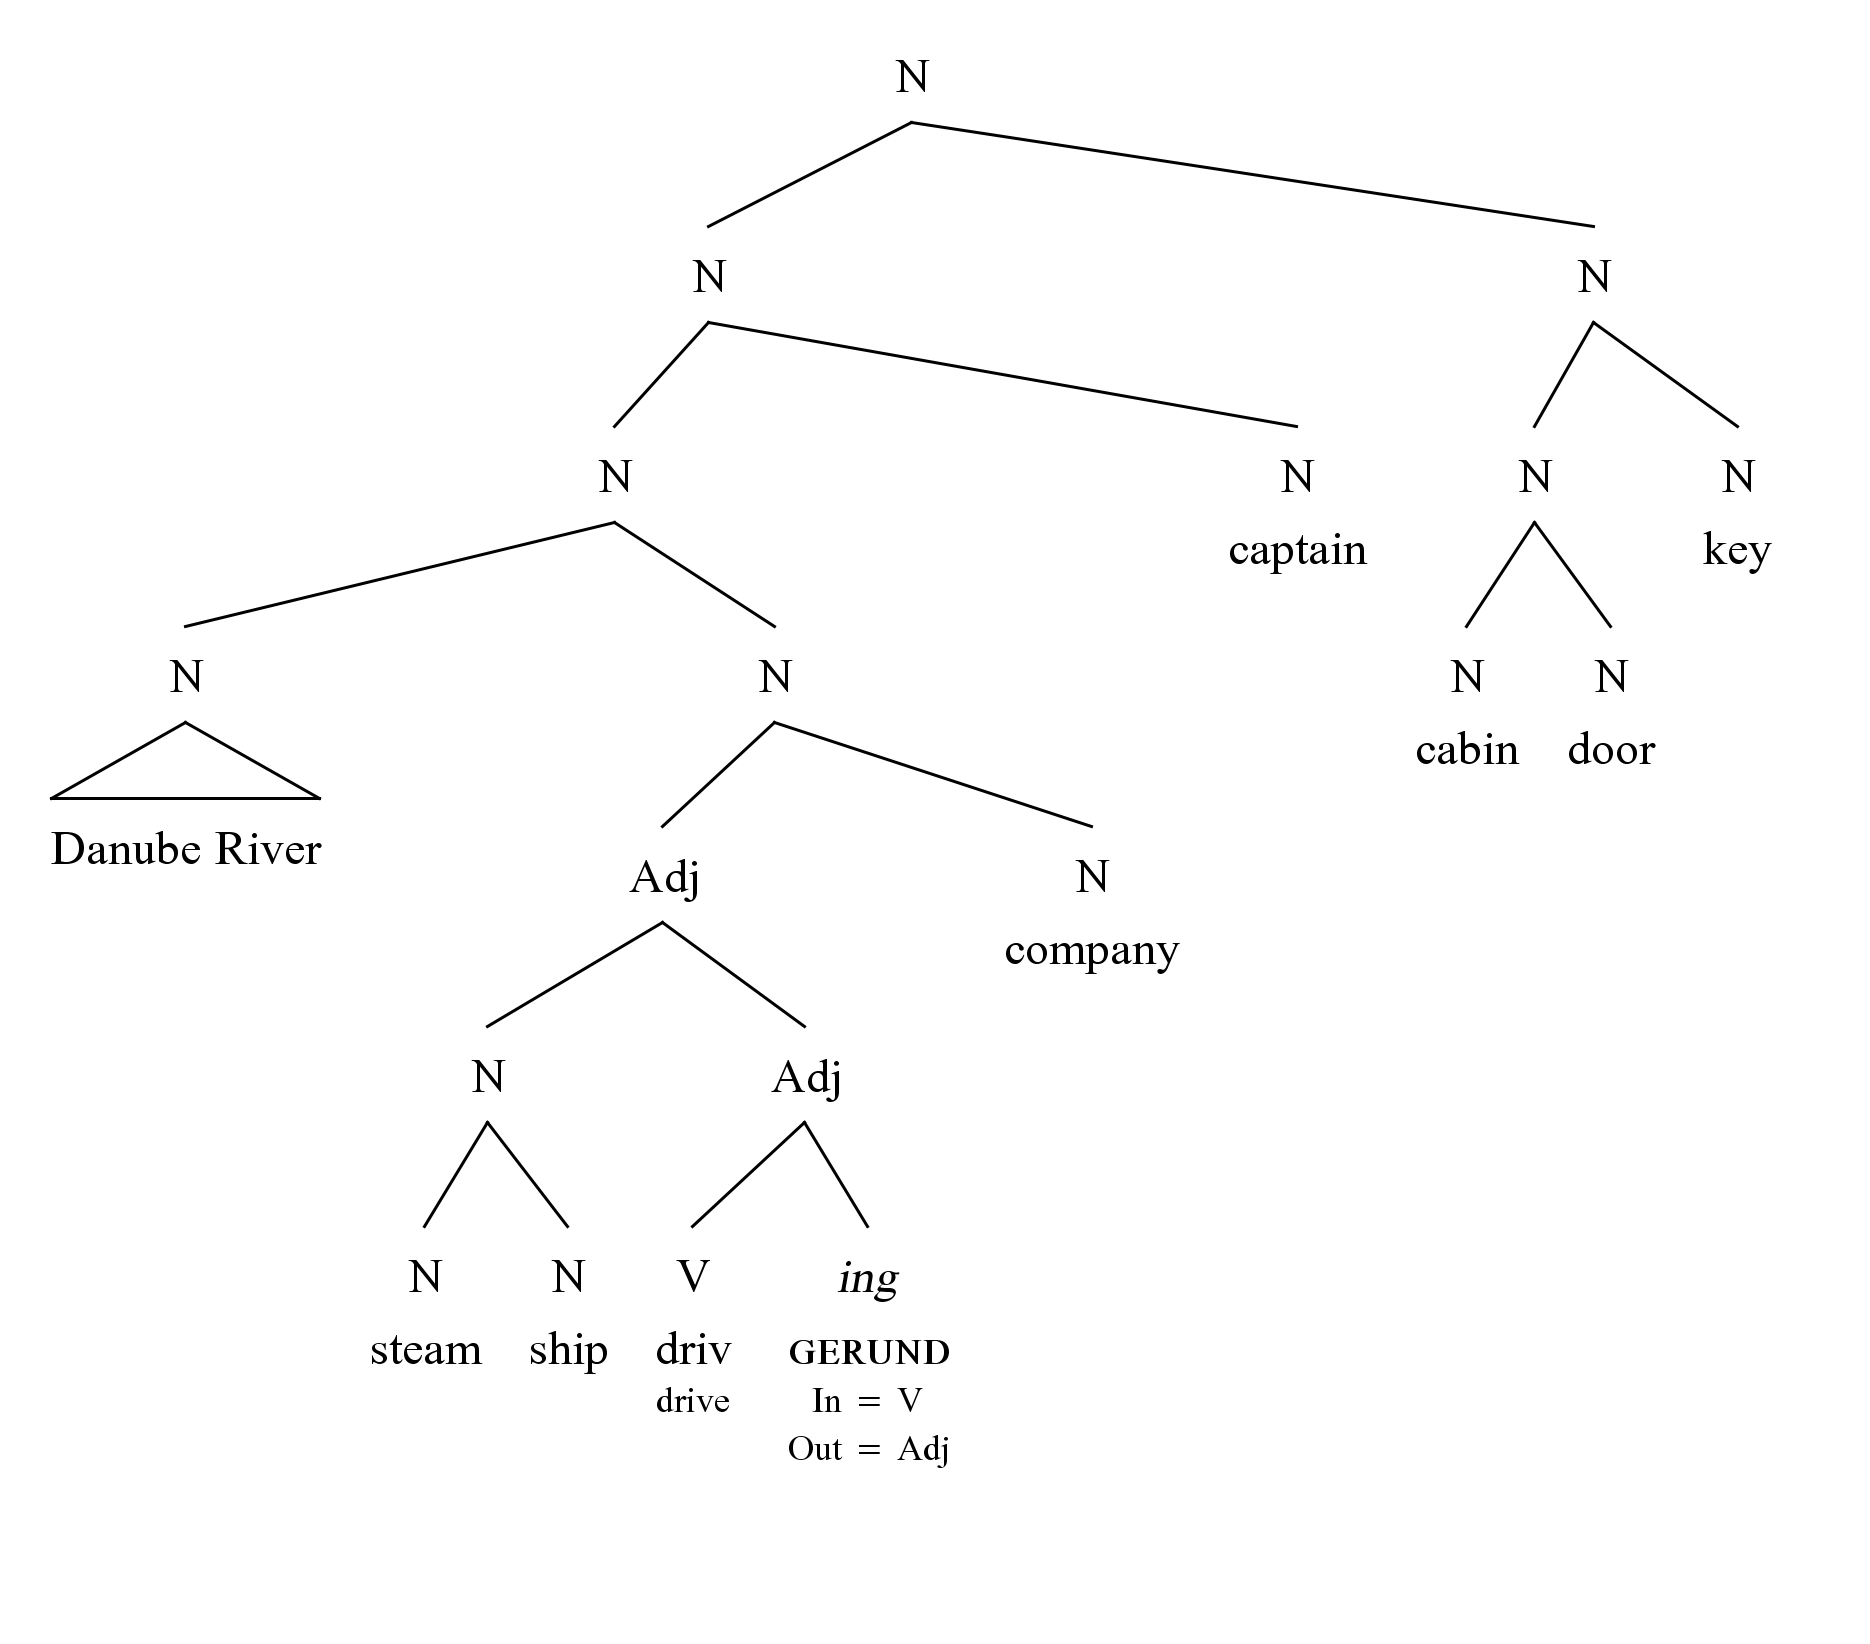
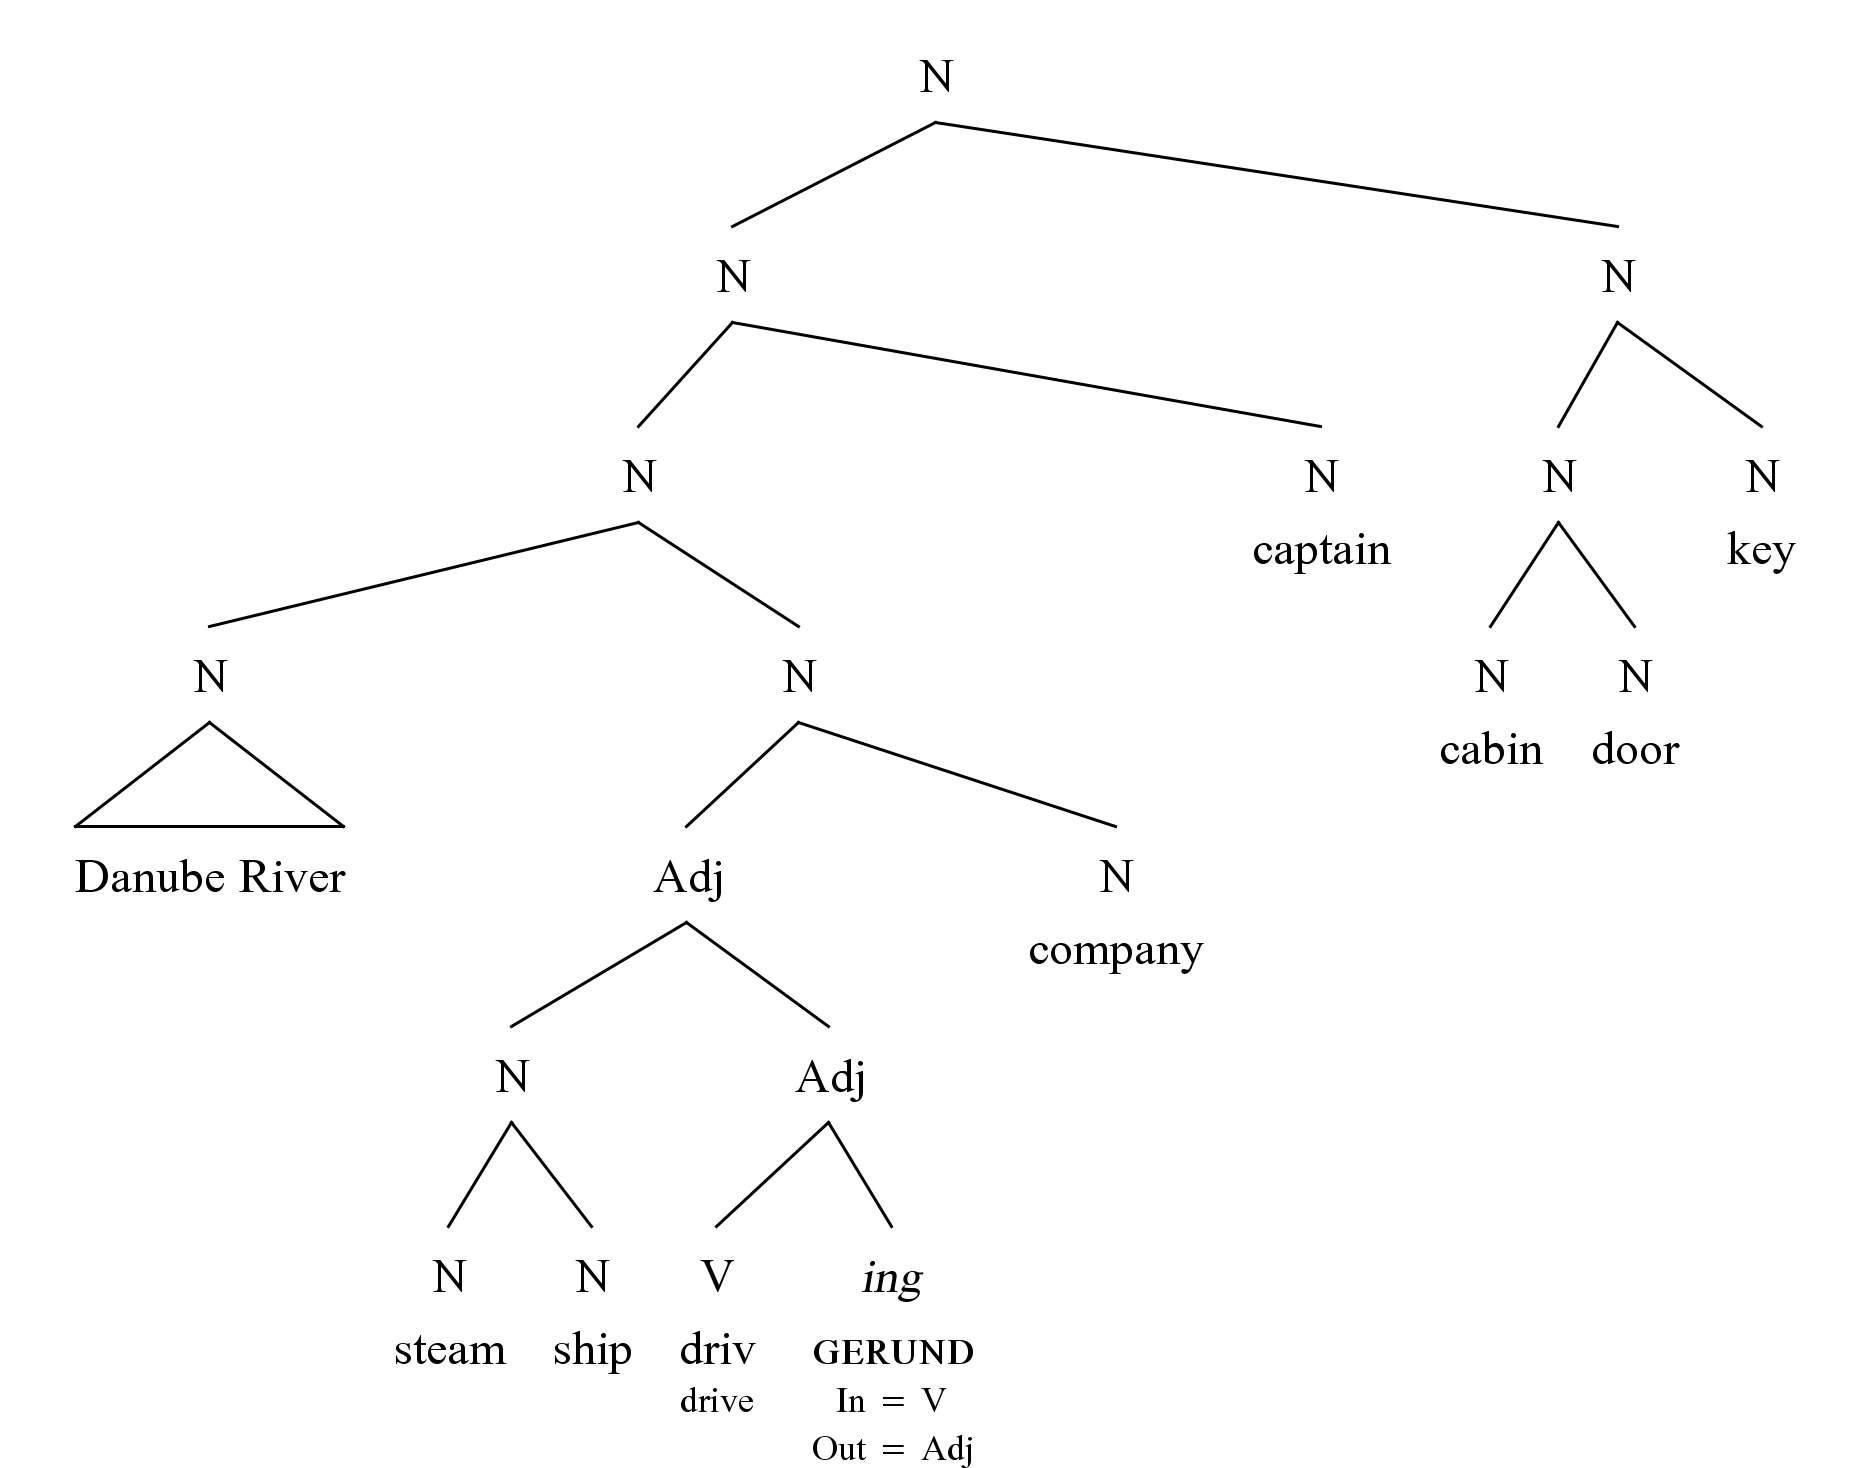
fixed border / rendering issues

diff --git a/SRC/JSyntaxTree.java b/SRC/JSyntaxTree.java
@@ -16,12 +16,10 @@ public class JSyntaxTree extends JApplet {
     static int spacingX = 50;
     static int spacingY = 200;
     static int border = 50;
-    static JFrame f;
 
     static String output_file = "OUTPUT.png";
     static String font_name = "Doulos SIL";
-
-    static boolean saved = false;
+    
     static int height = 0;
     static int width = 0;
     static boolean in_color = false;
@@ -49,10 +47,9 @@ public class JSyntaxTree extends JApplet {
         Graphics2D g2 = (Graphics2D) g;
         g2.setRenderingHint(RenderingHints.KEY_ANTIALIASING, RenderingHints.VALUE_ANTIALIAS_ON);
         g2.setRenderingHint(RenderingHints.KEY_RENDERING, RenderingHints.VALUE_RENDER_QUALITY);
-        
         g2.setPaint(Color.BLACK);
 
-        paintNode(border - (fontSize / 2), border + (fontSize / 2), g2, NS);
+        paintNode(border, border + fontSize / 2, g2, NS);
     }
 
     public static void paintNode(int _x, int _y, Graphics g, Node n) {
@@ -77,13 +74,13 @@ public class JSyntaxTree extends JApplet {
                 g2.setStroke(stroke);
                 if (in_color)
                     g2.setPaint(Color.BLACK);
-                g2.draw(new Line2D.Float(center_x, _y + font.getSize2D(), center_x - n.getWidth(true) / 2 + spacingX / 2, _y + spacingY / 2 + font.getSize2D() / 2));               
-                g2.draw(new Line2D.Float(center_x, _y + font.getSize2D(), center_x + n.getWidth(true) / 2 - spacingX / 2, _y + spacingY / 2 + font.getSize2D() / 2));
+                g2.draw(new Line2D.Float(center_x, _y + font.getSize2D(), center_x - n.getWidth(true) / 2 + spacingX / 2, _y + spacingY - font.getSize2D()));               
+                g2.draw(new Line2D.Float(center_x, _y + font.getSize2D(), center_x + n.getWidth(true) / 2 - spacingX / 2, _y + spacingY - font.getSize2D()));
                 g2.draw(
-                    new Line2D.Float(center_x - n.getWidth(true) / 2 + spacingX / 2, _y + spacingY / 2 + font.getSize2D() / 2, center_x + n.getWidth(true) / 2 - spacingX / 2, _y + spacingY / 2 + font.getSize2D() / 2));
+                    new Line2D.Float(center_x - n.getWidth(true) / 2 + spacingX / 2, _y + spacingY - font.getSize2D(), center_x + n.getWidth(true) / 2 - spacingX / 2, _y + spacingY - font.getSize2D()));
                 if (in_color)
                         g2.setPaint(Color.RED);
-                drawCenteredString(center_x, (int)(_y + font.getSize2D() * 1.5 + spacingY / 2), g, n.metadata.substring(0, n.metadata.length() - 1));
+                drawCenteredString(center_x, _y + spacingY, g, n.metadata.substring(0, n.metadata.length() - 1));
             } else {
                 if (in_color)
                     g2.setPaint(Color.RED);
@@ -175,7 +172,6 @@ public class JSyntaxTree extends JApplet {
 
     static public void save()
     {
-        saved = true;
         BufferedImage bImg = new BufferedImage(width, height, BufferedImage.TYPE_INT_ARGB);
         Graphics2D cg = bImg.createGraphics();
         paintStatic(cg);
@@ -228,21 +224,21 @@ public class JSyntaxTree extends JApplet {
 
         font = new Font(font_name, Font.PLAIN, fontSize);
         NS = Interpreter.interpret(filename);
-        height = NS.getDepth() + spacingY + border * 2;
-
-        //Graphics2D g2 = new Graphics2D();
-       width = NS.getWidth(true) + border * 2;
+        height = NS.getDepth() + fontSize / 2 + border * 2;
+        width = NS.getWidth(true) + border * 2;
 
         if (!instant_quit) {
-        f = new JFrame("JSyntaxTree");
-        f.addWindowListener(new WindowAdapter() {
-            public void windowClosing(WindowEvent e) {System.exit(0);}
-        });
-        JApplet applet = new JSyntaxTree();
-        f.getContentPane().add("Center", applet);
-        applet.init();
-        f.setSize(new Dimension(width / 2,height / 2));
-         f.setVisible(true);
+            JFrame f = new JFrame("JSyntaxTree");
+            f.addWindowListener(new WindowAdapter() {
+                public void windowClosing(WindowEvent e) {System.exit(0);}
+            });
+            JApplet applet = new JSyntaxTree();
+            applet.setPreferredSize(new Dimension(width / 2, height / 2));
+            f.getContentPane().add(applet);
+            applet.init();
+            //f.setSize(new Dimension(width / 2, height / 2));
+            f.pack();
+            f.setVisible(true);
         }
         save();
     }

diff --git a/SRC/Node.java b/SRC/Node.java
@@ -36,7 +36,9 @@ public class Node {
 				depth = tent_depth;
 		}
 		if (subNodes.isEmpty()) {
-			return metadata.split("\\\\n").length * JSyntaxTree.fontSize;
+			depth = metadata.split("\\\\n").length * JSyntaxTree.fontSize;
+			if (metadata.charAt(metadata.length() - 1) == '^')
+				depth += JSyntaxTree.spacingY;
 		}
 		return depth;
 	}
